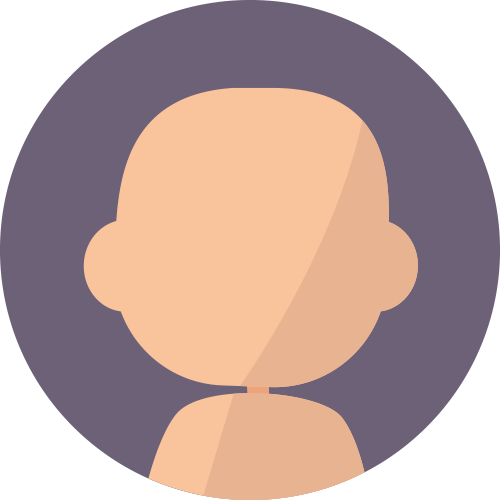
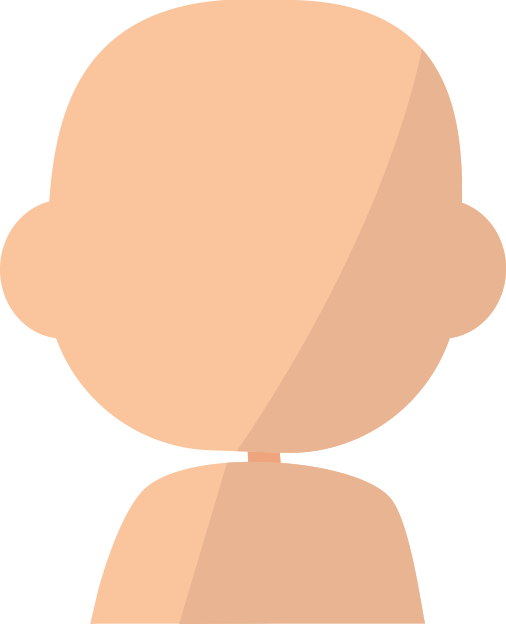
Programacion done

diff --git a/lib/home/diary/diaryScreen.dart b/lib/home/diary/diaryScreen.dart
@@ -375,18 +375,12 @@ class _DiaryScreenState extends State<DiaryScreen> {
                                                       padding: const EdgeInsets.only(left: 15.0),
                                                       child: Container(
                                                           alignment: Alignment.center,
-                                                          child: Text(diaryData.get('date'),
-                                                              style: GoogleFonts.varelaRound(fontSize: 15))),
+                                                          child: diaryData.get('day').toString().length == 1?
+                                                            Text('0' + diaryData.get('date').toString(), style: GoogleFonts.varelaRound(fontSize: 15))
+                                                              : Text(diaryData.get('date'), style: GoogleFonts.varelaRound(fontSize: 15))),
                                                     ),
-                                                    //la fecha, al no tener ceros si el día o el mes es menor de 10,
-                                                    // le añado más padding para que quede alineado con los que sí son >10
-                                                    diaryData.get('date').toString().length < 9?
                                                     Padding(
-                                                      padding: const EdgeInsets.only(left: 125.0),
-                                                      child: Container(
-                                                          child: Text('Puntuación: ', style: GoogleFonts.varelaRound(fontSize: 15))),
-                                                    ) : Padding(
-                                                      padding: const EdgeInsets.only(left: 105.0),
+                                                      padding: const EdgeInsets.only(left: 95),
                                                       child: Container(
                                                           child: Text(
                                                               'Puntuación: ',

diff --git a/lib/home/home/homeScreen.dart b/lib/home/home/homeScreen.dart
@@ -72,8 +72,7 @@ class _HomeScreenState extends State<HomeScreen> {
                                               ? Image.network(pic.data.toString(),
                                                   fit: BoxFit.cover)
                                               : Image.asset(
-                                                  "assets/avatar.png",
-                                                  fit: BoxFit.cover,
+                                                  "assets/avatar2.png",
                                                 ),
                                         ),
                                       )),
